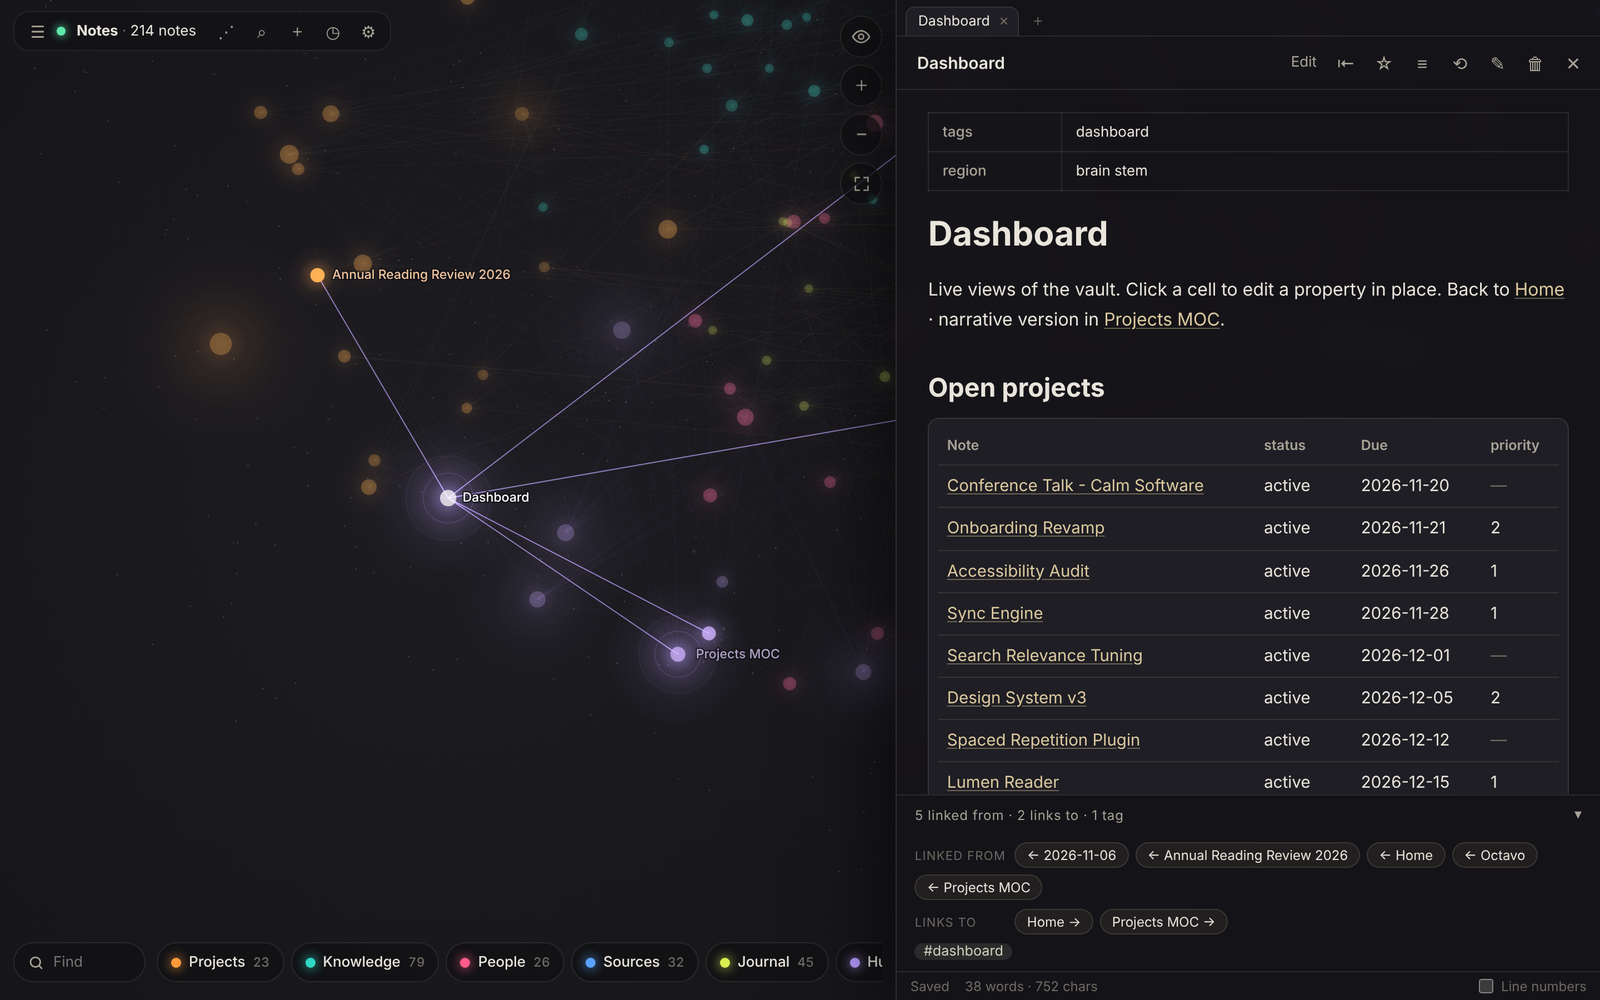
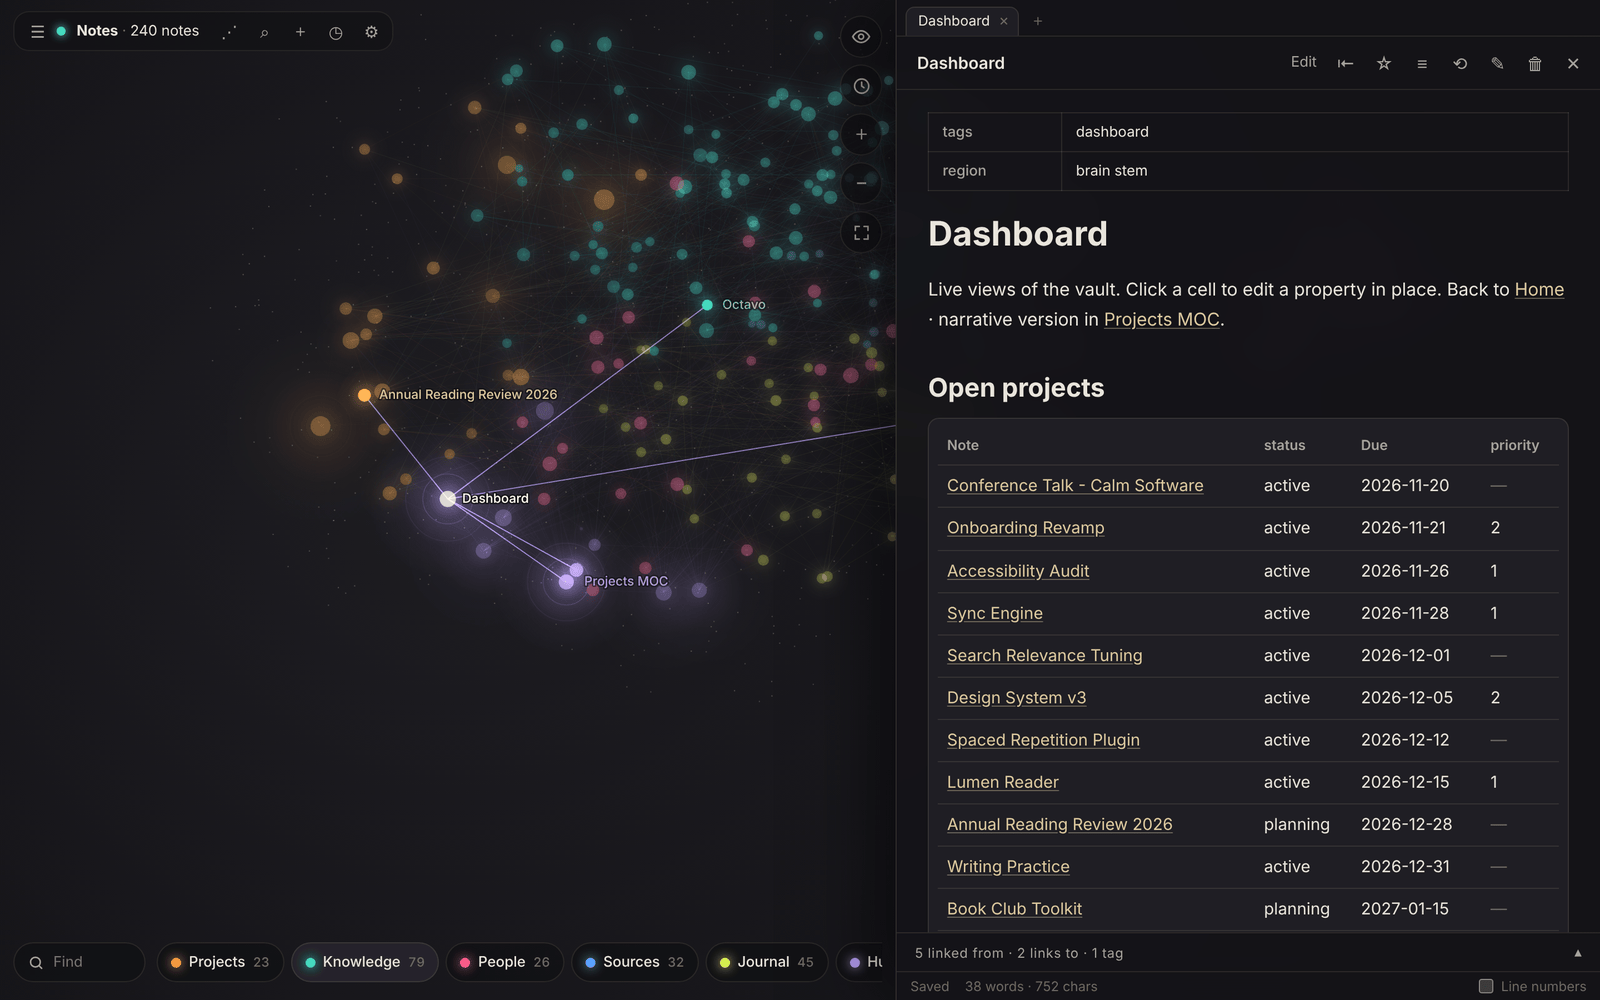
First run: 14 starter notes across all six regions; fresh README screenshots; clearer empty-state hints
Claude-Session: https://claude.ai/code/session_01EyjLQmXVFvNHVZgweo87Wz

diff --git a/docs/INSTALL.md b/docs/INSTALL.md
@@ -88,7 +88,7 @@ Open **http://127.0.0.1:4321**. You'll see the example vault from `examples/demo
 npm start -- --vault ~/Octavo
 ```
 
-- The folder is created if it doesn't exist. An empty vault gets two starter notes (use `--no-seed` to skip them).
+- The folder is created if it doesn't exist. An empty vault gets a few starter notes (use `--no-seed` to skip them).
 - Without `--vault`, the default is `~/Octavo`.
 - You can point it at an existing **Obsidian vault**. The files stay compatible, and Obsidian's `.obsidian` folder is ignored.
 - On Windows, use a path like `--vault "C:\Users\you\Documents\Octavo"`.
